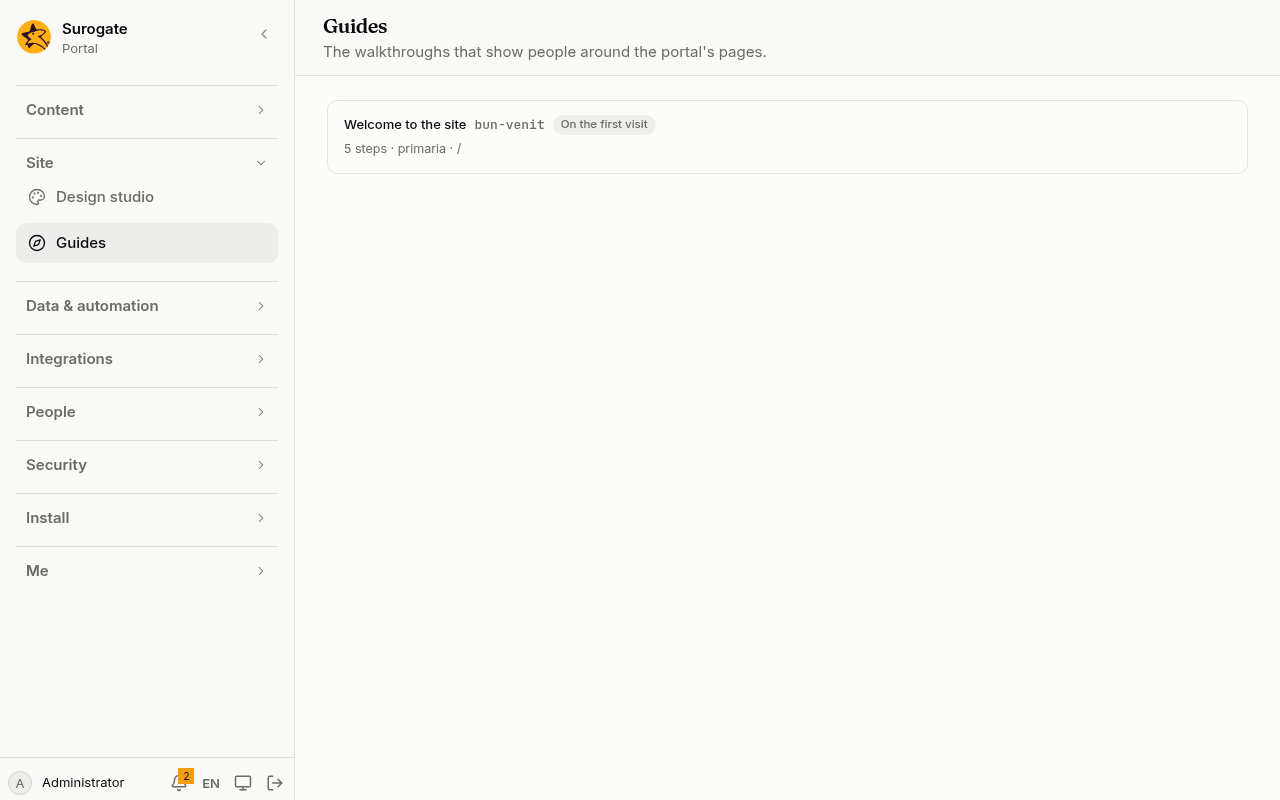
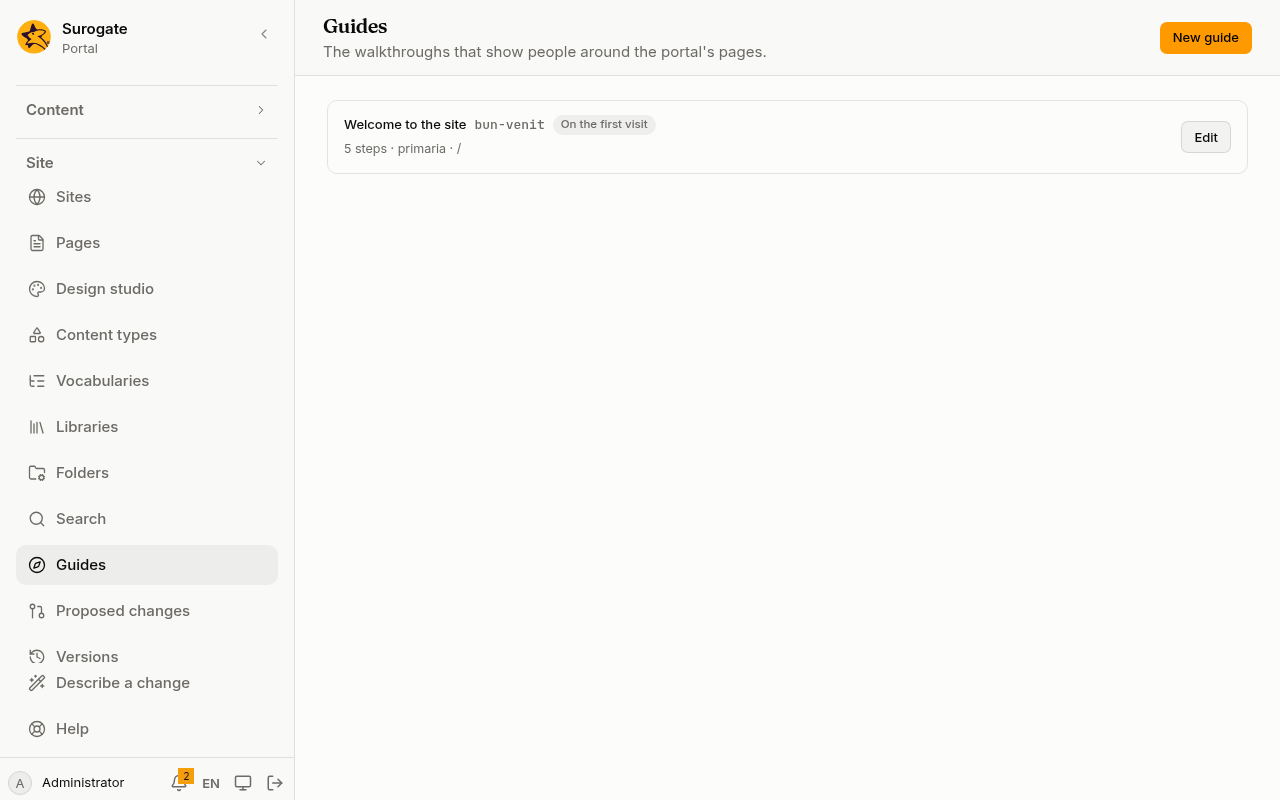
docs(portal): make and change guides in the console

diff --git a/tests/test_content.py b/tests/test_content.py
@@ -486,10 +486,14 @@ class Content(unittest.TestCase):
 
     def test_portal_guides(self):
         doc = page('/portal/sites/guides/')
-        for anchor in ('what-people-see', 'start-a-guide', 'in-the-console'):
+        for anchor in ('what-people-see', 'write-a-guide', 'start-a-guide', 'in-the-console'):
             self.assertIn(f'id="{anchor}"', doc)
         self.assertIn('id="ui-actions"', page('/portal/sites/actions/'))
         self.assertIn('href="/portal/sites/guides/"', page('/portal/console/guides/'))
+        self.assertIn('href="/portal/sites/guides/#write-a-guide"', page('/portal/console/guides/'))
+        # Guides are made in the console.
+        for path in ('sites/guides.md', 'console/guides.md'):
+            self.assertNotIn('For now', (ROOT / 'src/content/docs/portal' / path).read_text(), path)
         for path in ('sites/guides.md', 'console/guides.md'):
             source = (ROOT / 'src/content/docs/portal' / path).read_text()
             for word in ('kubectl', 'helm', 'PORTAL_', 'git', 'Git', 'Hub', 'worker', 'Postgres', 'index', 'repositor', 'localStorage'):

diff --git a/src/content/docs/portal/sites/guides.md b/src/content/docs/portal/sites/guides.md
@@ -17,11 +17,28 @@ Here a guide starts on someone's first visit to the home page. Its first step po
 
 ## Write a guide
 
-A guide has a name, in every language. It applies to the sites and pages it names; left out, it applies on every site or every page. Each page it names must be a page of one of the guide's sites. It starts when asked for, which is the default, or by itself the first time someone opens one of its pages.
+On [Guides](/portal/console/guides/), **New guide** makes a guide and **Edit** changes one. A portal has at most 50 guides.
 
-A guide has at most 30 steps. Each step has a title and a text in every language, as plain text, and can point at a part of the page. A step that points at nothing, or at a part that is not found, shows on its own.
+![The guide editor: the guide bun-venit, its name in each language, Only these sites with Demo City Hall ticked, and Only these pages with the home page ticked among the site's pages.](../../../../assets/screenshots/portal-guide-edit.png)
 
-The console does not write guides yet. For now, this is set in the site's configuration: see [Developer: User guides](/portal/developer/guides/#a-guides-file).
+- **Id:** lower-case letters, digits and `-`. It is in the guide's address, and cannot change once the guide is saved.
+- **Name**, in every language.
+- **Sites** and **Pages:** **Every site** or **Only these sites**, and **Every page** or **Only these pages**, each with a box to tick per site or page. Only the pages of the sites ticked are offered. With **Only these** and nothing ticked, the guide shows nowhere, and the editor says so. A site or page that no longer exists is listed, ticked, as such: untick it before saving.
+- **Starts:** when asked for, or by itself the first time someone opens one of its pages. A guide that starts when asked for shows the address to add to a page's address, `?guide=<id>`.
+- **Steps:** at most 30, each with a title (at most 120 characters) and a text (at most 1,000) in every language, as plain text without `<`. **Move up**, **Move down** and **Remove step** order them; a guide keeps at least one.
+
+**Points at** chooses what a step highlights:
+
+- **Nothing:** the step shows on its own, without a highlight.
+- **A block** of the guide's pages, by its id, its widget and its pages; a block inside a group too.
+- **A part of the page**, such as its main region.
+- **Something else, by a CSS selector:** for parts of the site's layout, such as its menu, for example `.site-menu` or `nav`. The editor checks the selector as the browser reads it; `< > { } ; ' \` are not allowed.
+
+![A guide's second step in the editor: its title and text in each language, and Points at set to the search block of the home page.](../../../../assets/screenshots/portal-guide-edit-steps.png)
+
+A step whose part is not on the page, or that a visitor cannot see, such as a block only editors see, shows on its own.
+
+Developers can also write a guide as a file: see [Developer: User guides](/portal/developer/guides/#a-guides-file).
 
 ## Start a guide
 
@@ -33,10 +50,10 @@ A guide starts:
 
 Each browser remembers the guides it has shown by themselves and those it finished: a first-visit guide does not start again there, even when the person left the page without closing it. When a page has several first-visit guides, the first by id starts. A browser that keeps nothing never starts a guide by itself.
 
-The console does not add this action to a form yet. For now, this is set in the site's configuration: see [Developer: User guides](/portal/developer/guides/#start-a-guide).
+On a form's **Steps** tab, add **Start a guide** and pick the guide: see [Forms](/portal/sites/forms/). A guide a form or a flow starts cannot be removed until they stop starting it: the console lists them.
 
 ## In the console
 
-[Guides](/portal/console/guides/) lists the portal's guides for administrators: each guide's name and id, how it starts, its number of steps, and the sites and pages it applies to.
+[Guides](/portal/console/guides/) lists the portal's guides for administrators: each guide's name and id, how it starts, its number of steps, and the sites and pages it applies to, with **Edit**.
 
-![The console's Guides page: the guide "Welcome to the site", marked "On the first visit", with 5 steps, on the site primaria at /.](../../../../assets/screenshots/portal-guides-console.png)
+![The console's Guides page, with New guide: the guide "Welcome to the site", marked "On the first visit", with 5 steps, on the site primaria at /, and Edit.](../../../../assets/screenshots/portal-guides-console.png)

diff --git a/src/content/docs/portal/console/guides.md b/src/content/docs/portal/console/guides.md
@@ -3,4 +3,8 @@ title: Guides
 description: The user guides the portal shows, where each applies and how it starts.
 ---
 
-**Guides** lists the portal's [user guides](/portal/sites/guides/) for administrators: each guide's name, how it starts (when asked for, or on the first visit), its number of steps, and the sites and pages it applies to. To see one, open one of its pages with `?guide=<id>` at the end of its address. The console does not write guides yet. For now, this is set in the site's configuration: see [Developer: User guides](/portal/developer/guides/).
+**Guides** lists the portal's [user guides](/portal/sites/guides/) for administrators: each guide's name, how it starts (when asked for, or on the first visit), its number of steps, and the sites and pages it applies to. To see one, open one of its pages with `?guide=<id>` at the end of its address.
+
+**New guide** makes a guide and **Edit** on a guide changes it: where it shows, how it starts and its steps, each pointing at a block of its pages. See [Write a guide](/portal/sites/guides/#write-a-guide). A portal has at most 50 guides; at 50, **New guide** is off.
+
+A guide that is saved but not running, because of a problem, is listed apart, under **Guides not running**, with **Edit** to open it and see why.
